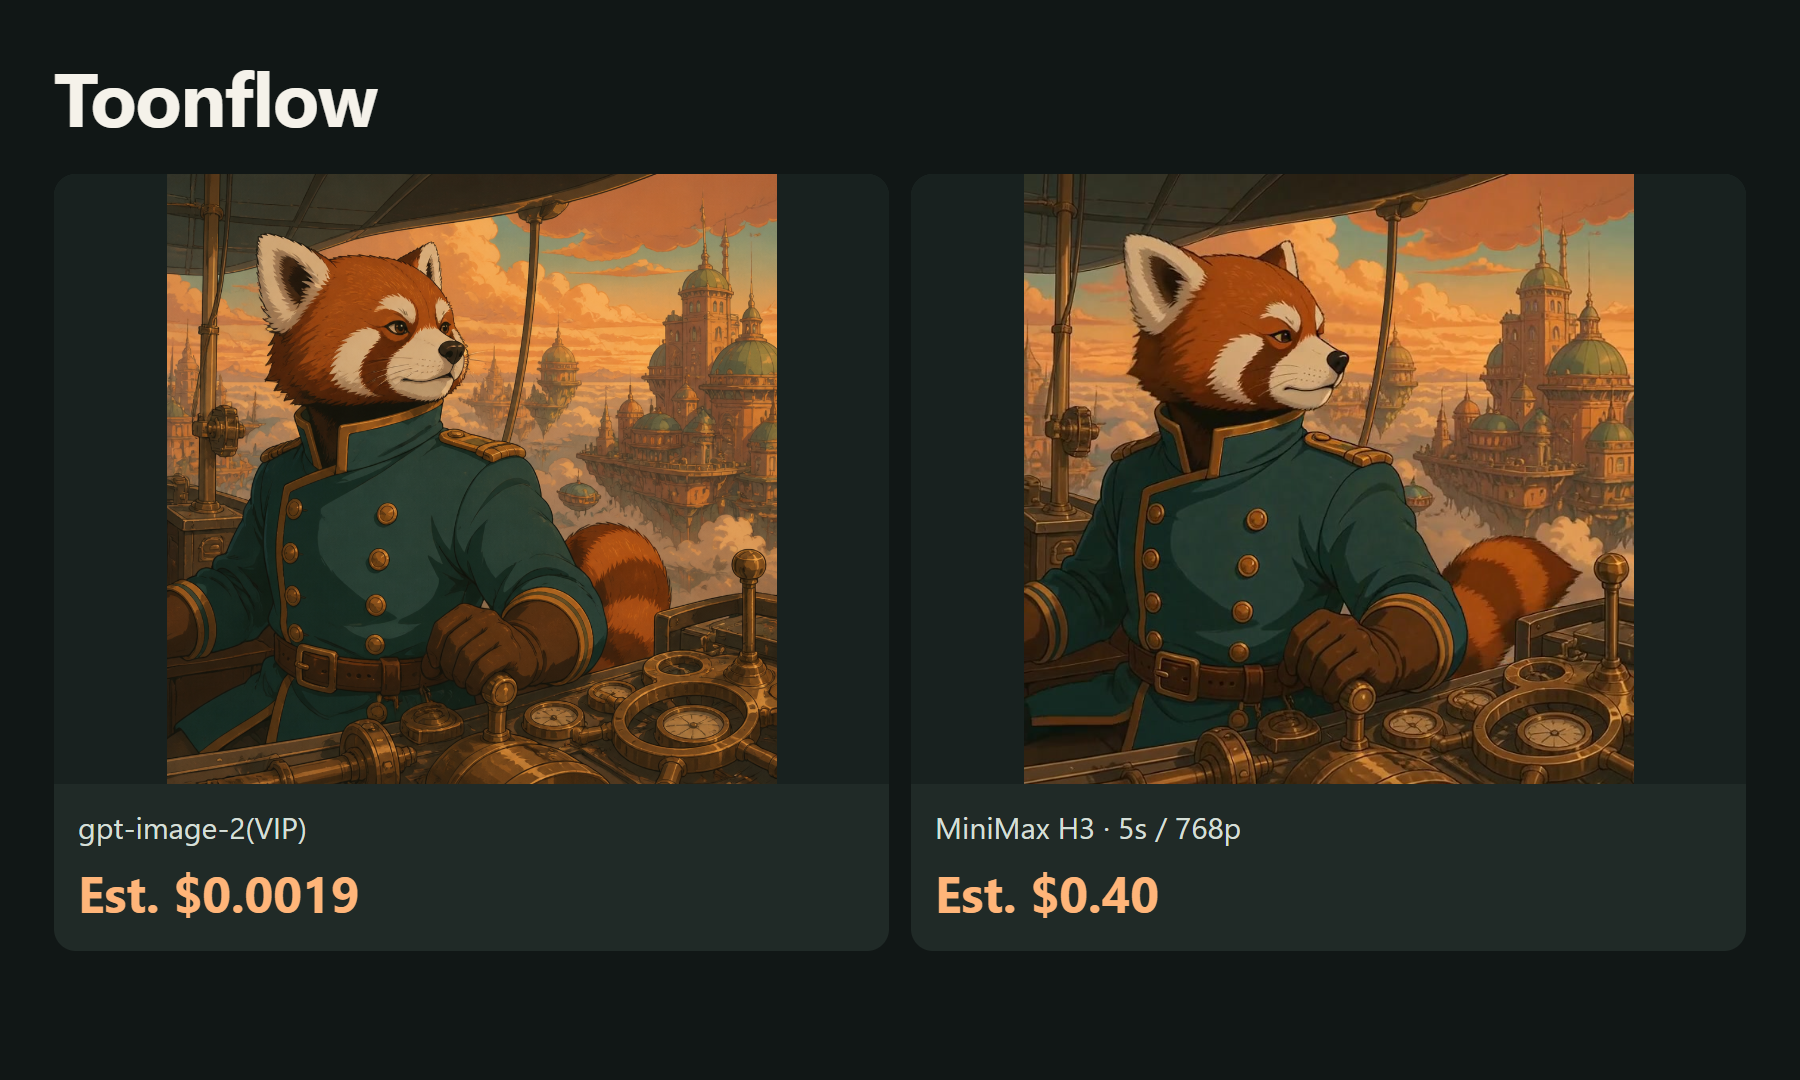
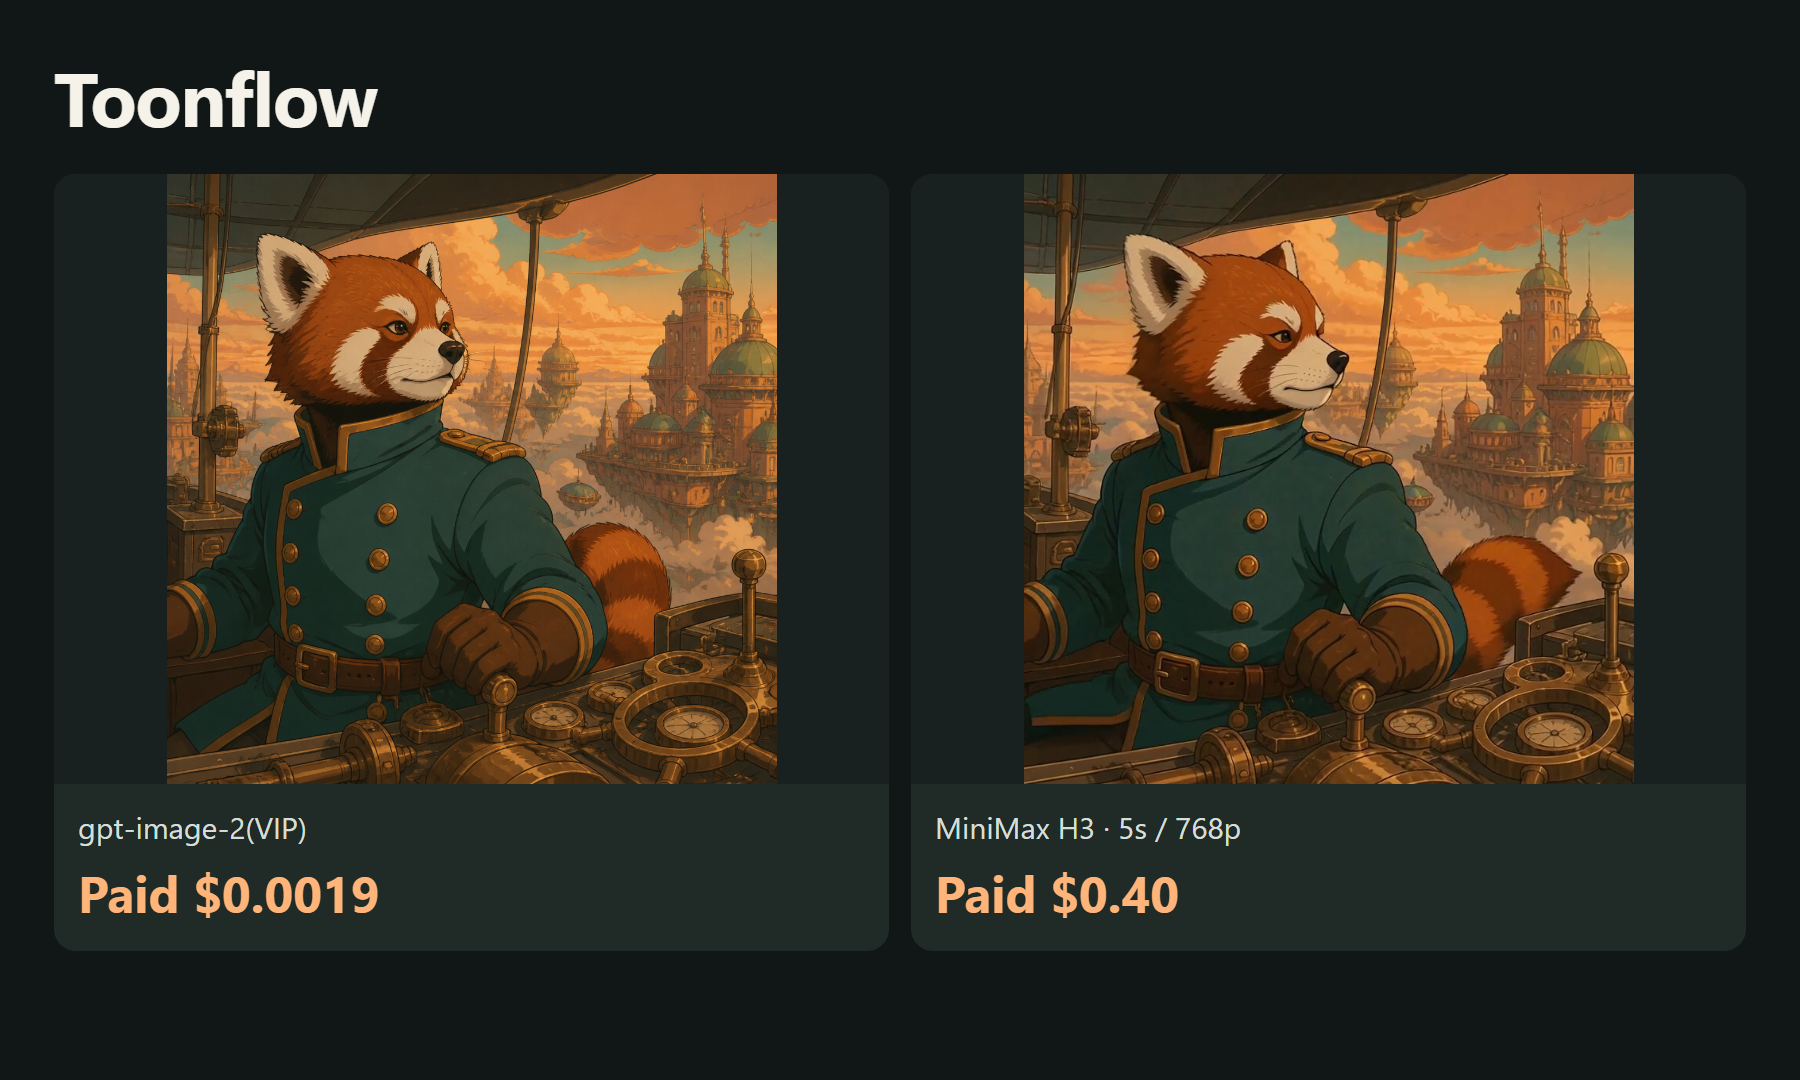
Publish original bilingual ToAPIs media examples, model pricing and real outputs

Changed region(s): [[0.0311, 0.7944, 0.2178, 0.8556], [0.5289, 0.7944, 0.6533, 0.8556]]

diff --git a/screenshots/cn/01-image-cases.html b/screenshots/cn/01-image-cases.html
@@ -1,1 +1,1 @@
-<!doctype html><html lang="zh-CN"><meta charset="utf-8"><title>Toonflow</title><style>*{box-sizing:border-box}html,body{margin:0;width:1800px;height:1080px;overflow:hidden}body{background:#111716;color:#f5f2ea;font-family:"Segoe UI","Microsoft YaHei",sans-serif}.page{padding:54px 54px 40px}h1{font-size:76px;line-height:1.1;margin:0 0 36px;font-weight:650;letter-spacing:-1.5px}.grid{display:grid;gap:22px}.case{background:#202a27;border-radius:22px;overflow:hidden}.case img{display:block;width:100%;height:590px;object-fit:contain;background:#18211f}.caption{padding:24px 24px 28px}.model{font-size:25px;line-height:1.3;color:#d5dfd7;white-space:nowrap}.price{font-size:51px;line-height:1.2;color:#ffb579;font-weight:650;margin-top:16px}.video .case img{height:610px}.video .model{font-size:30px}.video .price{font-size:50px}</style><main class="page "><h1>Toonflow</h1><div class="grid" style="grid-template-columns:repeat(3,1fr)"><section class="case"><img src="../../examples/gpt-image-2-vip.png"><div class="caption"><div class="model">gpt-image-2(VIP)</div><div class="price">预计 $0.0019</div></div></section><section class="case"><img src="../../examples/gpt-image-2-5-flare.png"><div class="caption"><div class="model">gpt-image-2.5-flare</div><div class="price">预计 $0.0225</div></div></section><section class="case"><img src="../../examples/gemini-nano-banana-2-1.png"><div class="caption"><div class="model">Nano Banana 2.1</div><div class="price">预计 $0.015</div></div></section></div></main></html>
+<!doctype html><html lang="zh-CN"><meta charset="utf-8"><title>Toonflow</title><style>*{box-sizing:border-box}html,body{margin:0;width:1800px;height:1080px;overflow:hidden}body{background:#111716;color:#f5f2ea;font-family:"Segoe UI","Microsoft YaHei",sans-serif}.page{padding:54px 54px 40px}h1{font-size:76px;line-height:1.1;margin:0 0 36px;font-weight:650;letter-spacing:-1.5px}.grid{display:grid;gap:22px}.case{background:#202a27;border-radius:22px;overflow:hidden}.case img{display:block;width:100%;height:590px;object-fit:contain;background:#18211f}.caption{padding:24px 24px 28px}.model{font-size:25px;line-height:1.3;color:#d5dfd7;white-space:nowrap}.price{font-size:51px;line-height:1.2;color:#ffb579;font-weight:650;margin-top:16px}.video .case img{height:610px}.video .model{font-size:30px}.video .price{font-size:50px}</style><main class="page "><h1>Toonflow</h1><div class="grid" style="grid-template-columns:repeat(3,1fr)"><section class="case"><img src="../../examples/gpt-image-2-vip.png"><div class="caption"><div class="model">gpt-image-2(VIP)</div><div class="price">实扣 $0.0019</div></div></section><section class="case"><img src="../../examples/gpt-image-2-5-flare.png"><div class="caption"><div class="model">gpt-image-2.5-flare</div><div class="price">实扣 $0.0225</div></div></section><section class="case"><img src="../../examples/gemini-nano-banana-2-1.png"><div class="caption"><div class="model">Nano Banana 2.1</div><div class="price">实扣 $0.015</div></div></section></div></main></html>

diff --git a/screenshots/en/01-image-cases.html b/screenshots/en/01-image-cases.html
@@ -1,1 +1,1 @@
-<!doctype html><html lang="en"><meta charset="utf-8"><title>Toonflow</title><style>*{box-sizing:border-box}html,body{margin:0;width:1800px;height:1080px;overflow:hidden}body{background:#111716;color:#f5f2ea;font-family:"Segoe UI","Microsoft YaHei",sans-serif}.page{padding:54px 54px 40px}h1{font-size:76px;line-height:1.1;margin:0 0 36px;font-weight:650;letter-spacing:-1.5px}.grid{display:grid;gap:22px}.case{background:#202a27;border-radius:22px;overflow:hidden}.case img{display:block;width:100%;height:590px;object-fit:contain;background:#18211f}.caption{padding:24px 24px 28px}.model{font-size:25px;line-height:1.3;color:#d5dfd7;white-space:nowrap}.price{font-size:51px;line-height:1.2;color:#ffb579;font-weight:650;margin-top:16px}.video .case img{height:610px}.video .model{font-size:30px}.video .price{font-size:50px}</style><main class="page "><h1>Toonflow</h1><div class="grid" style="grid-template-columns:repeat(3,1fr)"><section class="case"><img src="../../examples/gpt-image-2-vip.png"><div class="caption"><div class="model">gpt-image-2(VIP)</div><div class="price">Est. $0.0019</div></div></section><section class="case"><img src="../../examples/gpt-image-2-5-flare.png"><div class="caption"><div class="model">gpt-image-2.5-flare</div><div class="price">Est. $0.0225</div></div></section><section class="case"><img src="../../examples/gemini-nano-banana-2-1.png"><div class="caption"><div class="model">Nano Banana 2.1</div><div class="price">Est. $0.015</div></div></section></div></main></html>
+<!doctype html><html lang="en"><meta charset="utf-8"><title>Toonflow</title><style>*{box-sizing:border-box}html,body{margin:0;width:1800px;height:1080px;overflow:hidden}body{background:#111716;color:#f5f2ea;font-family:"Segoe UI","Microsoft YaHei",sans-serif}.page{padding:54px 54px 40px}h1{font-size:76px;line-height:1.1;margin:0 0 36px;font-weight:650;letter-spacing:-1.5px}.grid{display:grid;gap:22px}.case{background:#202a27;border-radius:22px;overflow:hidden}.case img{display:block;width:100%;height:590px;object-fit:contain;background:#18211f}.caption{padding:24px 24px 28px}.model{font-size:25px;line-height:1.3;color:#d5dfd7;white-space:nowrap}.price{font-size:51px;line-height:1.2;color:#ffb579;font-weight:650;margin-top:16px}.video .case img{height:610px}.video .model{font-size:30px}.video .price{font-size:50px}</style><main class="page "><h1>Toonflow</h1><div class="grid" style="grid-template-columns:repeat(3,1fr)"><section class="case"><img src="../../examples/gpt-image-2-vip.png"><div class="caption"><div class="model">gpt-image-2(VIP)</div><div class="price">Paid $0.0019</div></div></section><section class="case"><img src="../../examples/gpt-image-2-5-flare.png"><div class="caption"><div class="model">gpt-image-2.5-flare</div><div class="price">Paid $0.0225</div></div></section><section class="case"><img src="../../examples/gemini-nano-banana-2-1.png"><div class="caption"><div class="model">Nano Banana 2.1</div><div class="price">Paid $0.015</div></div></section></div></main></html>

diff --git a/screenshots/cn/02-video-case.html b/screenshots/cn/02-video-case.html
@@ -1,1 +1,1 @@
-<!doctype html><html lang="zh-CN"><meta charset="utf-8"><title>Toonflow</title><style>*{box-sizing:border-box}html,body{margin:0;width:1800px;height:1080px;overflow:hidden}body{background:#111716;color:#f5f2ea;font-family:"Segoe UI","Microsoft YaHei",sans-serif}.page{padding:54px 54px 40px}h1{font-size:76px;line-height:1.1;margin:0 0 36px;font-weight:650;letter-spacing:-1.5px}.grid{display:grid;gap:22px}.case{background:#202a27;border-radius:22px;overflow:hidden}.case img{display:block;width:100%;height:590px;object-fit:contain;background:#18211f}.caption{padding:24px 24px 28px}.model{font-size:25px;line-height:1.3;color:#d5dfd7;white-space:nowrap}.price{font-size:51px;line-height:1.2;color:#ffb579;font-weight:650;margin-top:16px}.video .case img{height:610px}.video .model{font-size:30px}.video .price{font-size:50px}</style><main class="page video"><h1>Toonflow</h1><div class="grid" style="grid-template-columns:repeat(2,1fr)"><section class="case"><img src="../../examples/gpt-image-2-vip.png"><div class="caption"><div class="model">gpt-image-2(VIP)</div><div class="price">预计 $0.0019</div></div></section><section class="case"><img src="../../demo/video-frame.jpg"><div class="caption"><div class="model">MiniMax H3 · 5s / 768p</div><div class="price">预计 $0.40</div></div></section></div></main></html>
+<!doctype html><html lang="zh-CN"><meta charset="utf-8"><title>Toonflow</title><style>*{box-sizing:border-box}html,body{margin:0;width:1800px;height:1080px;overflow:hidden}body{background:#111716;color:#f5f2ea;font-family:"Segoe UI","Microsoft YaHei",sans-serif}.page{padding:54px 54px 40px}h1{font-size:76px;line-height:1.1;margin:0 0 36px;font-weight:650;letter-spacing:-1.5px}.grid{display:grid;gap:22px}.case{background:#202a27;border-radius:22px;overflow:hidden}.case img{display:block;width:100%;height:590px;object-fit:contain;background:#18211f}.caption{padding:24px 24px 28px}.model{font-size:25px;line-height:1.3;color:#d5dfd7;white-space:nowrap}.price{font-size:51px;line-height:1.2;color:#ffb579;font-weight:650;margin-top:16px}.video .case img{height:610px}.video .model{font-size:30px}.video .price{font-size:50px}</style><main class="page video"><h1>Toonflow</h1><div class="grid" style="grid-template-columns:repeat(2,1fr)"><section class="case"><img src="../../examples/gpt-image-2-vip.png"><div class="caption"><div class="model">gpt-image-2(VIP)</div><div class="price">实扣 $0.0019</div></div></section><section class="case"><img src="../../demo/video-frame.jpg"><div class="caption"><div class="model">MiniMax H3 · 5s / 768p</div><div class="price">实扣 $0.40</div></div></section></div></main></html>

diff --git a/screenshots/en/02-video-case.html b/screenshots/en/02-video-case.html
@@ -1,1 +1,1 @@
-<!doctype html><html lang="en"><meta charset="utf-8"><title>Toonflow</title><style>*{box-sizing:border-box}html,body{margin:0;width:1800px;height:1080px;overflow:hidden}body{background:#111716;color:#f5f2ea;font-family:"Segoe UI","Microsoft YaHei",sans-serif}.page{padding:54px 54px 40px}h1{font-size:76px;line-height:1.1;margin:0 0 36px;font-weight:650;letter-spacing:-1.5px}.grid{display:grid;gap:22px}.case{background:#202a27;border-radius:22px;overflow:hidden}.case img{display:block;width:100%;height:590px;object-fit:contain;background:#18211f}.caption{padding:24px 24px 28px}.model{font-size:25px;line-height:1.3;color:#d5dfd7;white-space:nowrap}.price{font-size:51px;line-height:1.2;color:#ffb579;font-weight:650;margin-top:16px}.video .case img{height:610px}.video .model{font-size:30px}.video .price{font-size:50px}</style><main class="page video"><h1>Toonflow</h1><div class="grid" style="grid-template-columns:repeat(2,1fr)"><section class="case"><img src="../../examples/gpt-image-2-vip.png"><div class="caption"><div class="model">gpt-image-2(VIP)</div><div class="price">Est. $0.0019</div></div></section><section class="case"><img src="../../demo/video-frame.jpg"><div class="caption"><div class="model">MiniMax H3 · 5s / 768p</div><div class="price">Est. $0.40</div></div></section></div></main></html>
+<!doctype html><html lang="en"><meta charset="utf-8"><title>Toonflow</title><style>*{box-sizing:border-box}html,body{margin:0;width:1800px;height:1080px;overflow:hidden}body{background:#111716;color:#f5f2ea;font-family:"Segoe UI","Microsoft YaHei",sans-serif}.page{padding:54px 54px 40px}h1{font-size:76px;line-height:1.1;margin:0 0 36px;font-weight:650;letter-spacing:-1.5px}.grid{display:grid;gap:22px}.case{background:#202a27;border-radius:22px;overflow:hidden}.case img{display:block;width:100%;height:590px;object-fit:contain;background:#18211f}.caption{padding:24px 24px 28px}.model{font-size:25px;line-height:1.3;color:#d5dfd7;white-space:nowrap}.price{font-size:51px;line-height:1.2;color:#ffb579;font-weight:650;margin-top:16px}.video .case img{height:610px}.video .model{font-size:30px}.video .price{font-size:50px}</style><main class="page video"><h1>Toonflow</h1><div class="grid" style="grid-template-columns:repeat(2,1fr)"><section class="case"><img src="../../examples/gpt-image-2-vip.png"><div class="caption"><div class="model">gpt-image-2(VIP)</div><div class="price">Paid $0.0019</div></div></section><section class="case"><img src="../../demo/video-frame.jpg"><div class="caption"><div class="model">MiniMax H3 · 5s / 768p</div><div class="price">Paid $0.40</div></div></section></div></main></html>

diff --git a/README.md b/README.md
@@ -4,7 +4,7 @@
 
 Create storyboards and short dramas.
 
-October 16, 2026: 3 real images and 1 real video. Catalog estimate for these completed assets: **$0.4394**; settled charges pending.
+October 16, 2026: 3 real images and 1 real video. Confirmed charge for these completed assets: **$0.4394 (87.88 credits)**, reconciled by task ID against the owner-provided dashboard export.
 
 [ToAPIs · model pricing and setup](https://go2v.toapis.com/tf16ge)
 
@@ -20,12 +20,12 @@ October 16, 2026: 3 real images and 1 real video. Catalog estimate for these com
 
 | Model | Preset | Catalog estimate / output | Settled charge |
 |---|---|---:|---|
-| gpt-image-2(VIP) | low / 1K | $0.0019 | pending |
-| gpt-image-2.5-flare | high / 1K | $0.0225 | pending |
-| Nano Banana 2.1 | 1K | $0.015 | pending |
-| MiniMax H3 | 5s / 768p / first-frame | $0.40 ($0.08/s) | pending |
+| gpt-image-2(VIP) | low / 1K | $0.0019 | $0.0019 |
+| gpt-image-2.5-flare | high / 1K | $0.0225 | $0.0225 |
+| Nano Banana 2.1 | 1K | $0.015 | $0.015 |
+| MiniMax H3 | 5s / 768p / first-frame | $0.40 ($0.08/s) | $0.4 |
 
-These are catalog estimates for the specified presets, not confirmed settled charges. Different models/presets do not imply equal quality. See evidence and examples for task records and originals.
+Catalog rates and confirmed charges match for these tested presets. Charges were reconciled against the owner-provided dashboard export at USD 0.005 per credit. Different models/presets do not imply equal quality. See evidence and examples for task records and originals.
 
 ## Run it
 

diff --git a/README_zh-CN.md b/README_zh-CN.md
@@ -4,7 +4,7 @@
 
 把故事做成分镜、角色素材和短片。
 
-2026-10-16：3张真实图片、1段真实视频；本批成功素材按价表估算 **$0.4394**，实际扣费待后台核对。
+2026-10-16：3张真实图片、1段真实视频；本批成功素材实扣 **$0.4394（87.88积分）**，已按后台导出逐任务核对。
 
 [ToAPIs · 对应模型价格与接入](https://go2v.toapis.com/tf16gc)
 
@@ -20,12 +20,12 @@
 
 | Model | Preset | Catalog estimate / output | Settled charge |
 |---|---|---:|---|
-| gpt-image-2(VIP) | low / 1K | $0.0019 | 待核对 |
-| gpt-image-2.5-flare | high / 1K | $0.0225 | 待核对 |
-| Nano Banana 2.1 | 1K | $0.015 | 待核对 |
-| MiniMax H3 | 5s / 768p / first-frame | $0.40 ($0.08/s) | 待核对 |
+| gpt-image-2(VIP) | low / 1K | $0.0019 | $0.0019 |
+| gpt-image-2.5-flare | high / 1K | $0.0225 | $0.0225 |
+| Nano Banana 2.1 | 1K | $0.015 | $0.015 |
+| MiniMax H3 | 5s / 768p / first-frame | $0.40 ($0.08/s) | $0.4 |
 
-以上是本次明确配置的费率估算，不是已结算金额；不同模型/画质不表示同等质量。每项任务、请求和原始文件见evidence与examples。
+对应配置的价表与本次实扣一致；实扣来自后台导出，1积分=$0.005。不同模型/画质不表示同等质量。逐任务记录和原始文件见evidence与examples。
 
 ## 怎么运行
 
